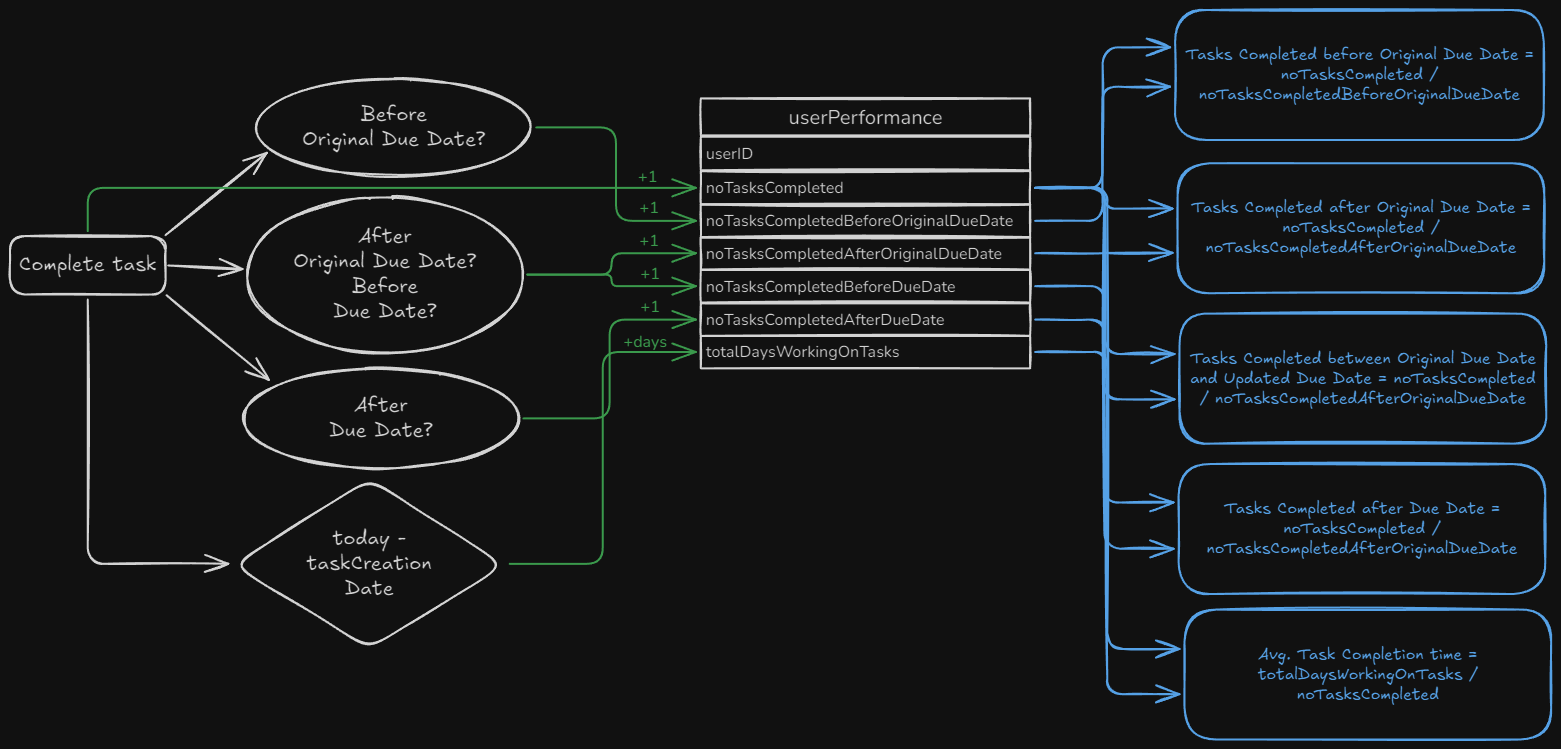
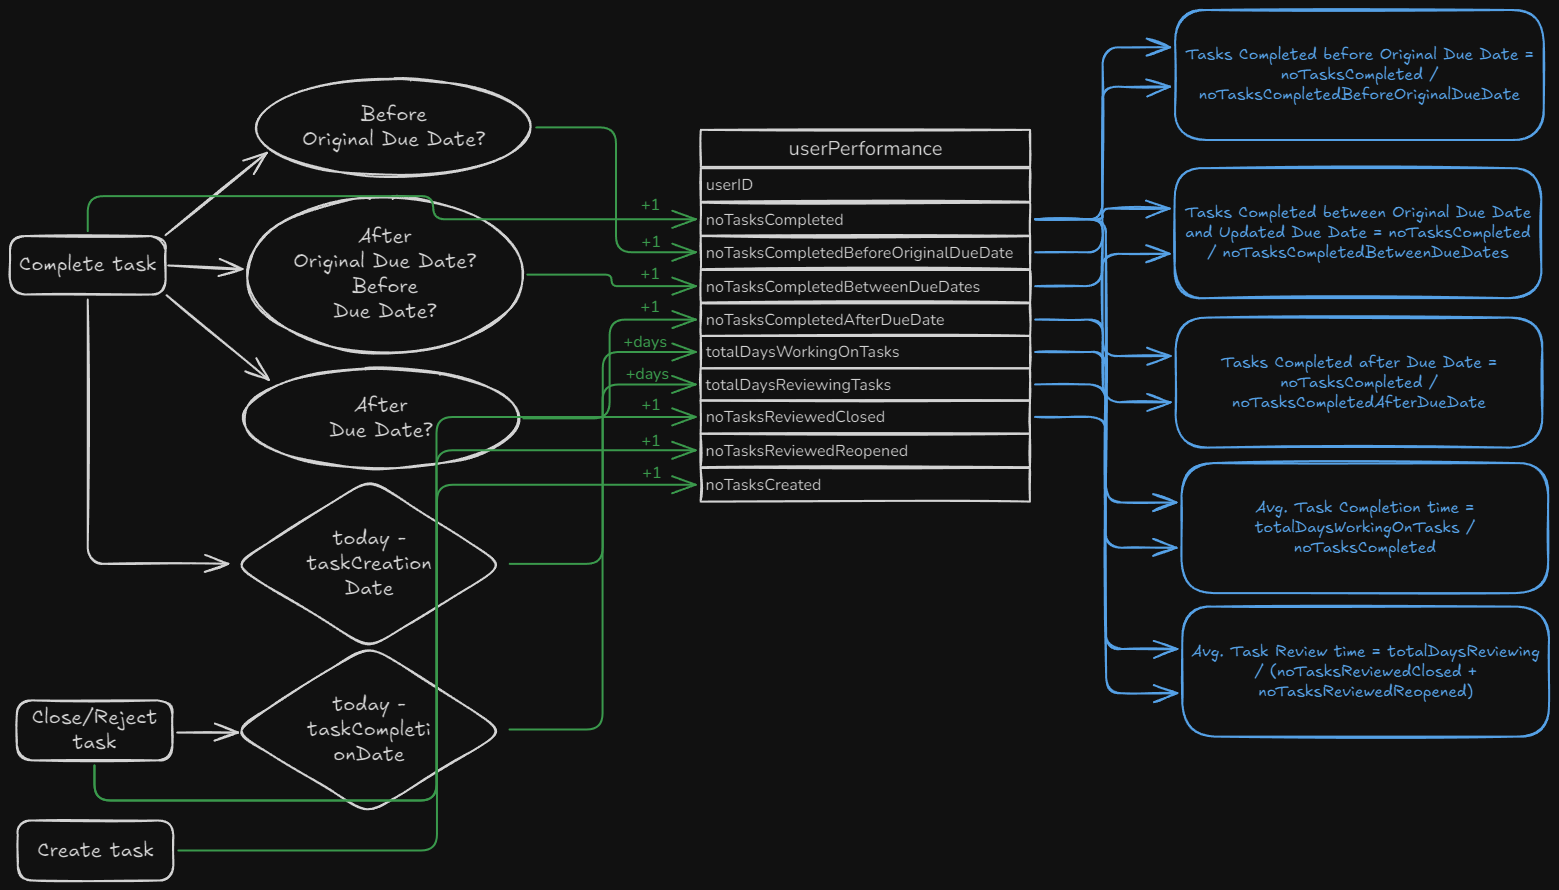
schema update

diff --git a/app/(protected)/tasks/_actions/updateUserStats.ts b/app/(protected)/tasks/_actions/updateUserStats.ts
@@ -1,0 +1,1 @@
+export default async function updateUserStats(userId: string, taskAction: "create" | "complete" | "close" | "reopen") {}
